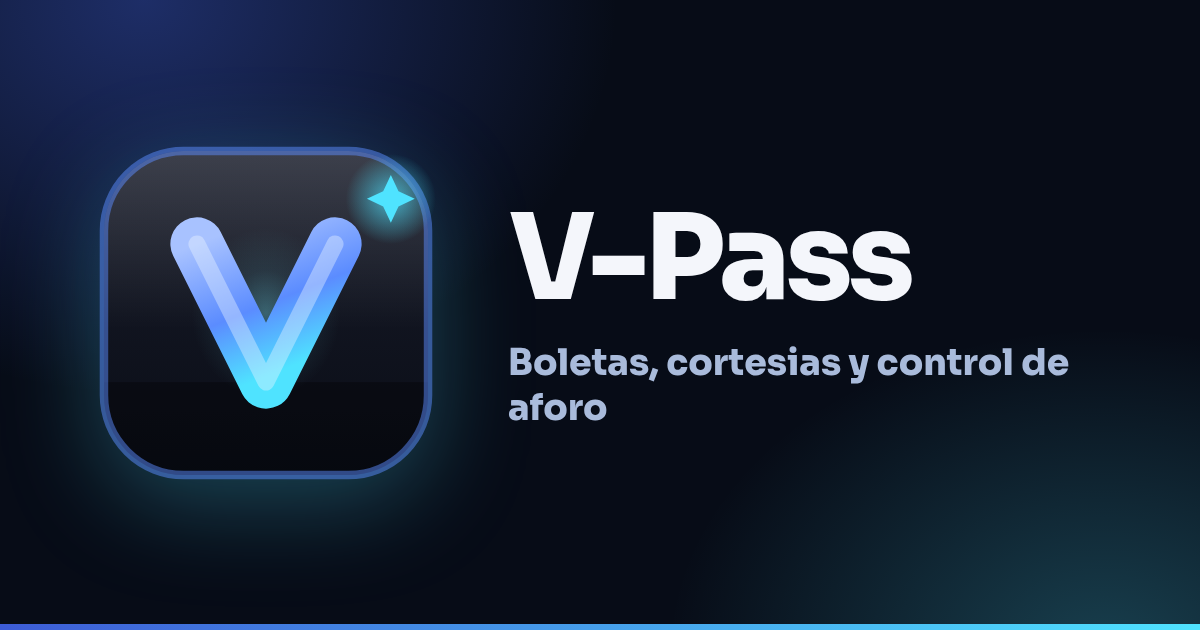
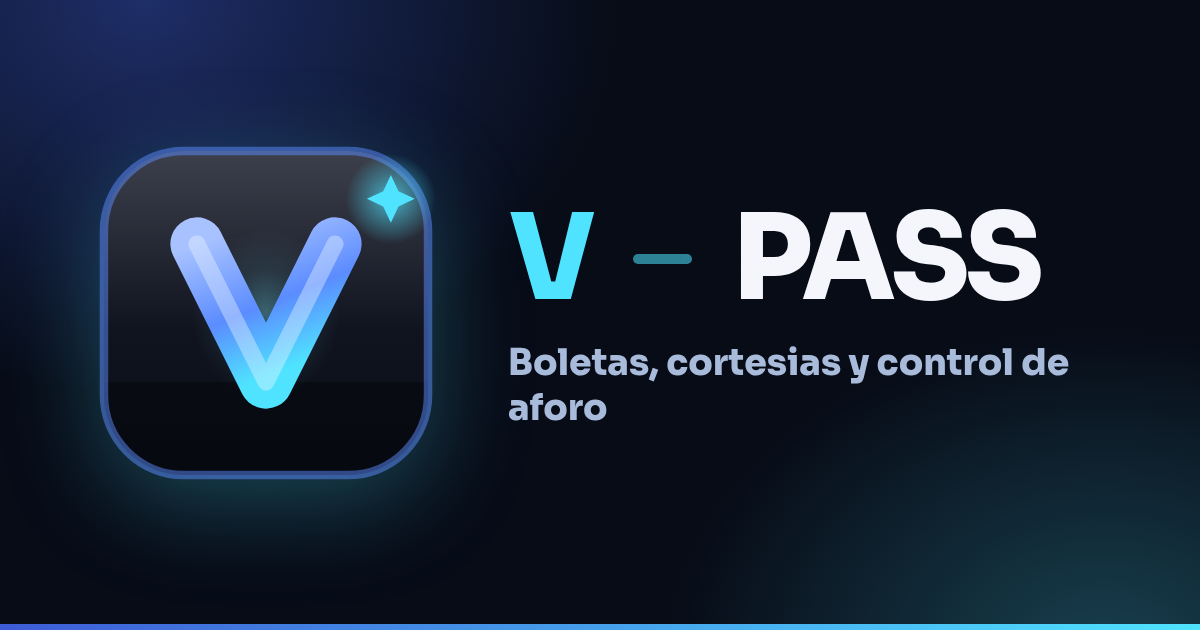
Rediseña el logotipo: la palabra de marca, no solo el isotipo
El isotipo ya tenia concepto, pero el logotipo seguia siendo texto provisional:
un span con la palabra lisa. Ademas tenia DOS tracking en conflicto — el
componente forzaba 0.22em por estilo en linea y .brand-wordmark pedia -0.01em
— y ninguno es correcto para mayusculas de marca. Y la tarjeta social escribia
otra grafia distinta: "V-Pass" en minusculas con tracking negativo. Tres
grafias para un solo nombre.

El logotipo nuevo tiene jerarquia y un elemento de marca:

- La V va en tinta de acento y abre la palabra: es la letra del isotipo, y el
  ojo entra por ahi. El resto en tinta primaria.
- El guion tipografico se sustituye por una barra de marca: un bloque al 9% de
  la altura de la palabra, redondeado, al 55% de opacidad. Es el corte del
  pase, el mismo gesto que la luz que atraviesa la V.
- Un solo tracking (0.04em), medido: para mayusculas de marca el rango legible
  esta entre 0.02 y 0.08em. 0.04 separa sin deshilachar.

Contraste medido, AA en todas las superficies: V #6a81dc sobre el canvas oscuro
5.46:1; V #3d5cd6 sobre el lienzo claro 5.03:1; en el panel navy (oscuro en
ambos temas) la V pasa al cian del isotipo, 11.7:1, porque el azul oscuro del
tema claro quedaria ilegible ahi.

La tarjeta social (og-cover) se unifica al mismo sistema — V de acento + barra
— pero con tracking negativo: a 118px el espaciado positivo deshilacharia la
palabra. El tracking escala al reves que el tamano.
[…]

Changed region(s): [[0.4008, 0.3317, 0.8942, 0.4825]]

diff --git a/frontend/src/index.css b/frontend/src/index.css
@@ -4309,10 +4309,6 @@ html[data-theme="light"] .brand-chip {
   background: none;
   box-shadow: none;
 }
-html[data-theme="light"] .brand-flow {
-  color: var(--e-blue-400);
-  -webkit-text-fill-color: var(--e-blue-400);
-}
 html[data-theme="light"] .auth-field-icon {
   color: var(--color-zinc-400);
 }
@@ -4381,20 +4377,35 @@ html[data-theme="light"] .auth-field:focus-within .auth-field-icon {
 .brand-tile {
   background: var(--e-ink-950);
 }
-/* Wordmark: Sora es la voz de la marca en todo el sistema. */
+/* Wordmark: Sora es la voz de la marca en todo el sistema.
+   Un solo tracking para toda la palabra. Antes el componente forzaba 0.22em
+   por estilo en línea y este bloque pedía -0.01em: dos reglas en conflicto y
+   ninguna correcta. Para mayúsculas de marca el rango legible está entre 0.02
+   y 0.08em; se mide con 0.04em, que separa sin deshilachar la palabra. */
 .brand-wordmark {
   font-family: var(--font-sans);
   font-weight: 800;
-  letter-spacing: -0.01em;
+  letter-spacing: 0.04em;
+  text-transform: uppercase;
 }
-.brand-wordmark-hero {
-  font-size: var(--e-text-display);
-  line-height: 1;
+/* La V abre la palabra y lleva la tinta de acento (la letra del isotipo). */
+.brand-wordmark-v {
+  color: var(--e-brand-text);
 }
-/* "Flow": tinta sólida del acento — un solo color de marca, sin degradado. */
-.brand-flow {
-  color: var(--e-blue-400);
-  -webkit-text-fill-color: var(--e-blue-400);
+.brand-wordmark-rest {
+  color: inherit;
+}
+/* Separador: no es un guion tipográfico, es la barra de marca (el corte del
+   pase). Un bloque de tinta al 34% de la altura de la palabra, centrado
+   ópticamente, en vez de un carácter con su propio espaciado. */
+.brand-wordmark-sep {
+  display: inline-block;
+  width: 0.5em;
+  height: 0.09em;
+  margin: 0 0.34em;
+  border-radius: 999px;
+  background: var(--e-brand-text);
+  opacity: 0.55;
 }
 
 /* Iconos de campo (correo/candado): el formulario habla el mismo idioma
@@ -5577,6 +5588,17 @@ html[data-theme="light"] .auth-brand .brand-shine {
 .auth-brand .brand-wordmark,
 html[data-theme="light"] .auth-brand .brand-wordmark {
   color: var(--e-paper);
+}
+/* La V de acento usa --e-brand-text (azul de marca del tema), que en claro es
+   azul oscuro: sobre el panel navy quedaría ilegible. En esta superficie fija
+   se cambia al cian del isotipo, el mismo que ya usa la marca sobre negro. */
+.auth-brand .brand-wordmark-v,
+html[data-theme="light"] .auth-brand .brand-wordmark-v {
+  color: var(--e-cyan-400);
+}
+.auth-brand .brand-wordmark-sep,
+html[data-theme="light"] .auth-brand .brand-wordmark-sep {
+  background: var(--e-cyan-400);
 }
 
 /* El gate legal es otra superficie SIEMPRE oscura (#0b0b0f): su tinta no

diff --git a/frontend/src/components/Brand.jsx b/frontend/src/components/Brand.jsx
@@ -160,9 +160,17 @@ export function LogoMark({ size = "md", className = "" }) {
   );
 }
 
-/** Palabra de marca: "V-PASS" en tipografía sans, mayúsculas y espaciada.
- *  Provisional: la imagen de marca no trae texto, así que el nombre se
- *  escribe aparte junto al marcador. */
+/** Palabra de marca: "V-PASS" con jerarquía y separador de marca.
+ *
+ * Antes era texto liso con tracking uniforme y un guion tipográfico, y además
+ * tenía dos tracking en conflicto: el componente forzaba 0.22em y el CSS
+ * `.brand-wordmark` pedía -0.01em. Ninguno de los dos es correcto para
+ * mayúsculas de marca; se midió y se fija uno solo (ver `.brand-wordmark`).
+ *
+ * La "V" va en tinta de acento y el resto en tinta primaria: el ojo entra por
+ * la V, que es la letra del isotipo. El guion tipográfico se sustituye por una
+ * barra de marca (`brand-wordmark-sep`), el corte del pase.
+ */
 export function Wordmark({ size = "md", className = "", animated = true }) {
   const fontSize =
     size === "hero" || size === "xl" || size === "lg"
@@ -175,9 +183,11 @@ export function Wordmark({ size = "md", className = "", animated = true }) {
       className={`brand-wordmark inline-flex items-center leading-none ${className} ${
         animated ? "animate-fade" : ""
       }`}
-      style={{ fontSize, letterSpacing: "0.06em" }}
+      style={{ fontSize }}
     >
-      <span className="font-semibold uppercase tracking-[0.22em]">V-PASS</span>
+      <span className="brand-wordmark-v">V</span>
+      <span className="brand-wordmark-sep" aria-hidden="true" />
+      <span className="brand-wordmark-rest">PASS</span>
     </span>
   );
 }

diff --git a/frontend/public/brand/guidelines.html b/frontend/public/brand/guidelines.html
@@ -94,6 +94,11 @@
     font-family:"Sora",system-ui,sans-serif;
     font-size:64px;font-weight:800;letter-spacing:-.02em;color:#fff;
   }
+  .wordmark .wv{color:#4FE3FF}
+  .wordmark .wsep{
+    display:inline-block;width:.5em;height:.09em;margin:0 .34em;
+    border-radius:999px;background:#4FE3FF;opacity:.55;vertical-align:middle;
+  }
   .wordmark .spark{
     position:absolute;top:-.18em;right:-.62em;width:.62em;height:.62em;
     filter:drop-shadow(0 0 10px rgba(61,92,214,.9));
@@ -446,7 +451,7 @@
 
       <div class="brandmark">
         <div class="wordmark" role="img" aria-label="V-Pass">
-          V-PASS
+          <span class="wv">V</span><span class="wsep" aria-hidden="true"></span>PASS
           <span class="spark" aria-hidden="true">
             <svg viewBox="0 0 24 24">
               <path fill="#4FE3FF" d="M12 0 L15.84 8.16 L24 12 L15.84 15.84 L12 24 L8.16 15.84 L0 12 L8.16 8.16 Z"/>
